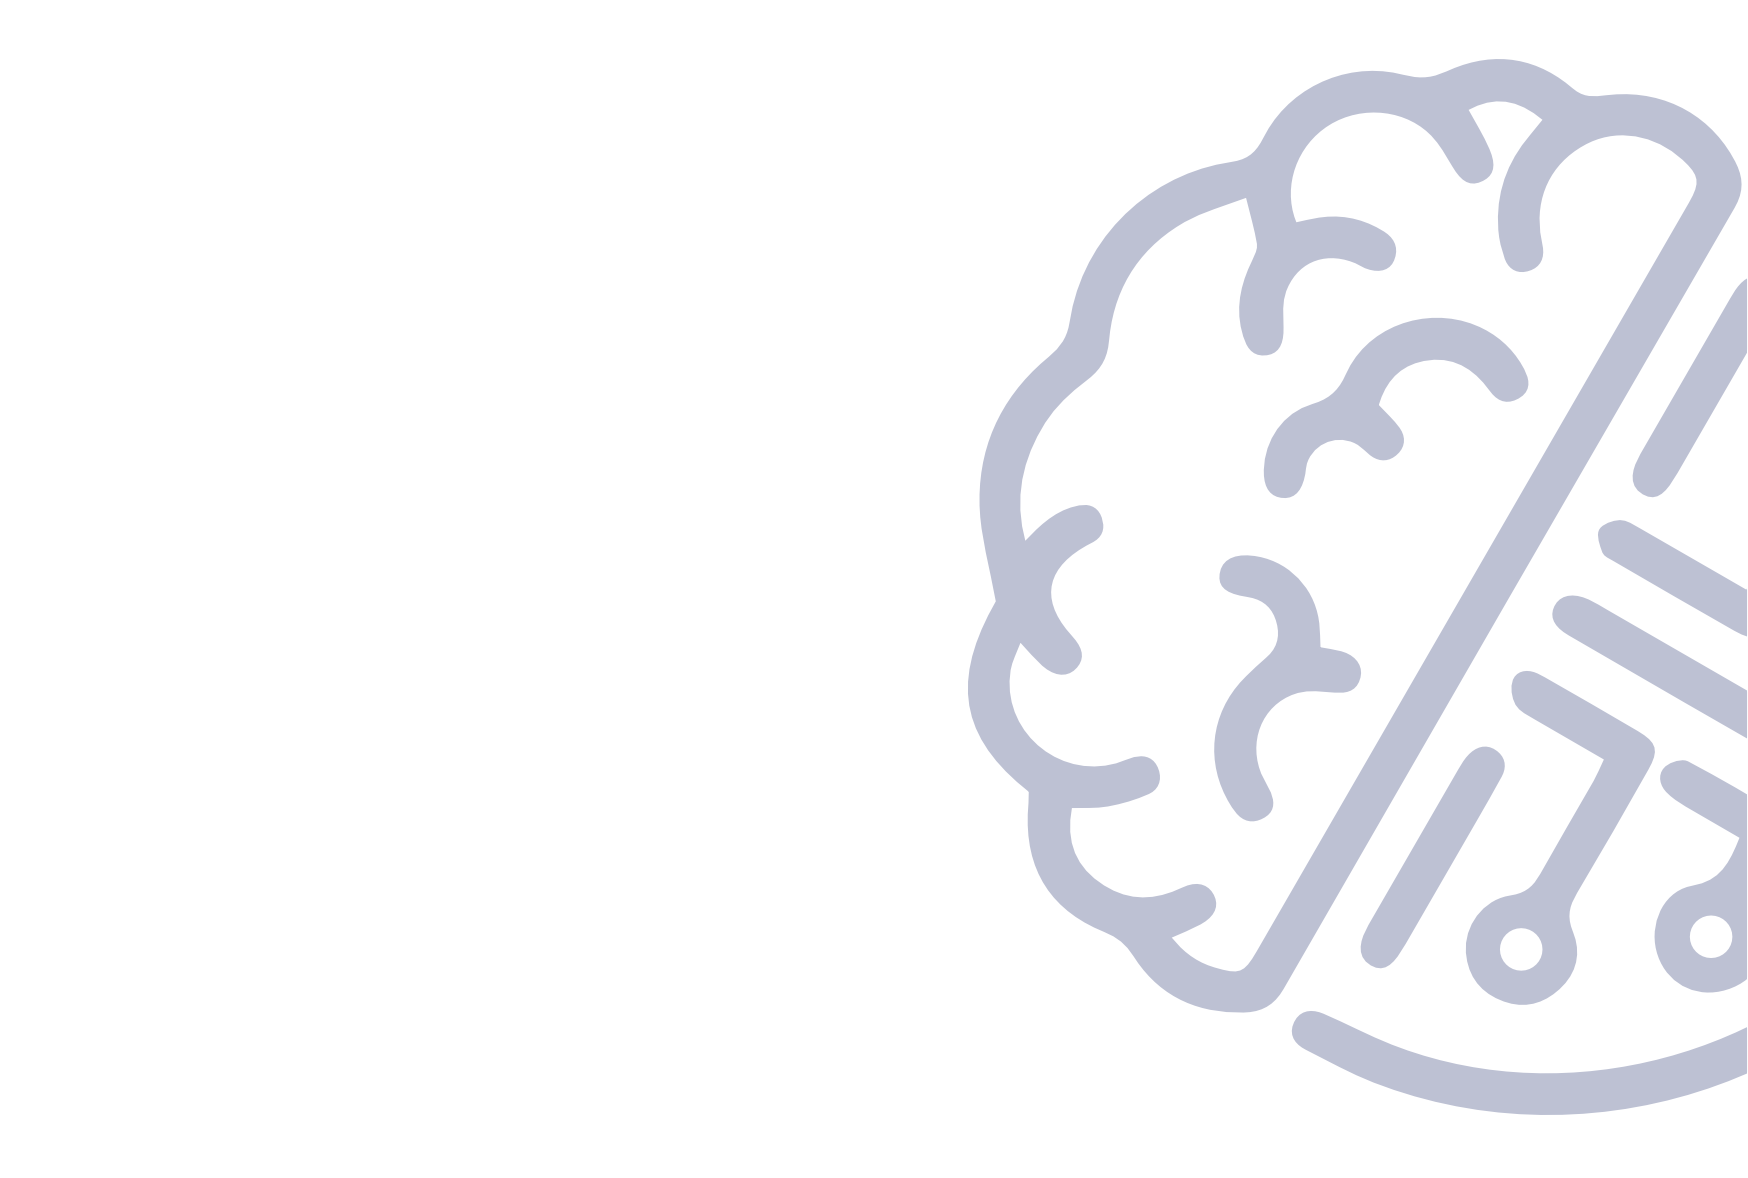
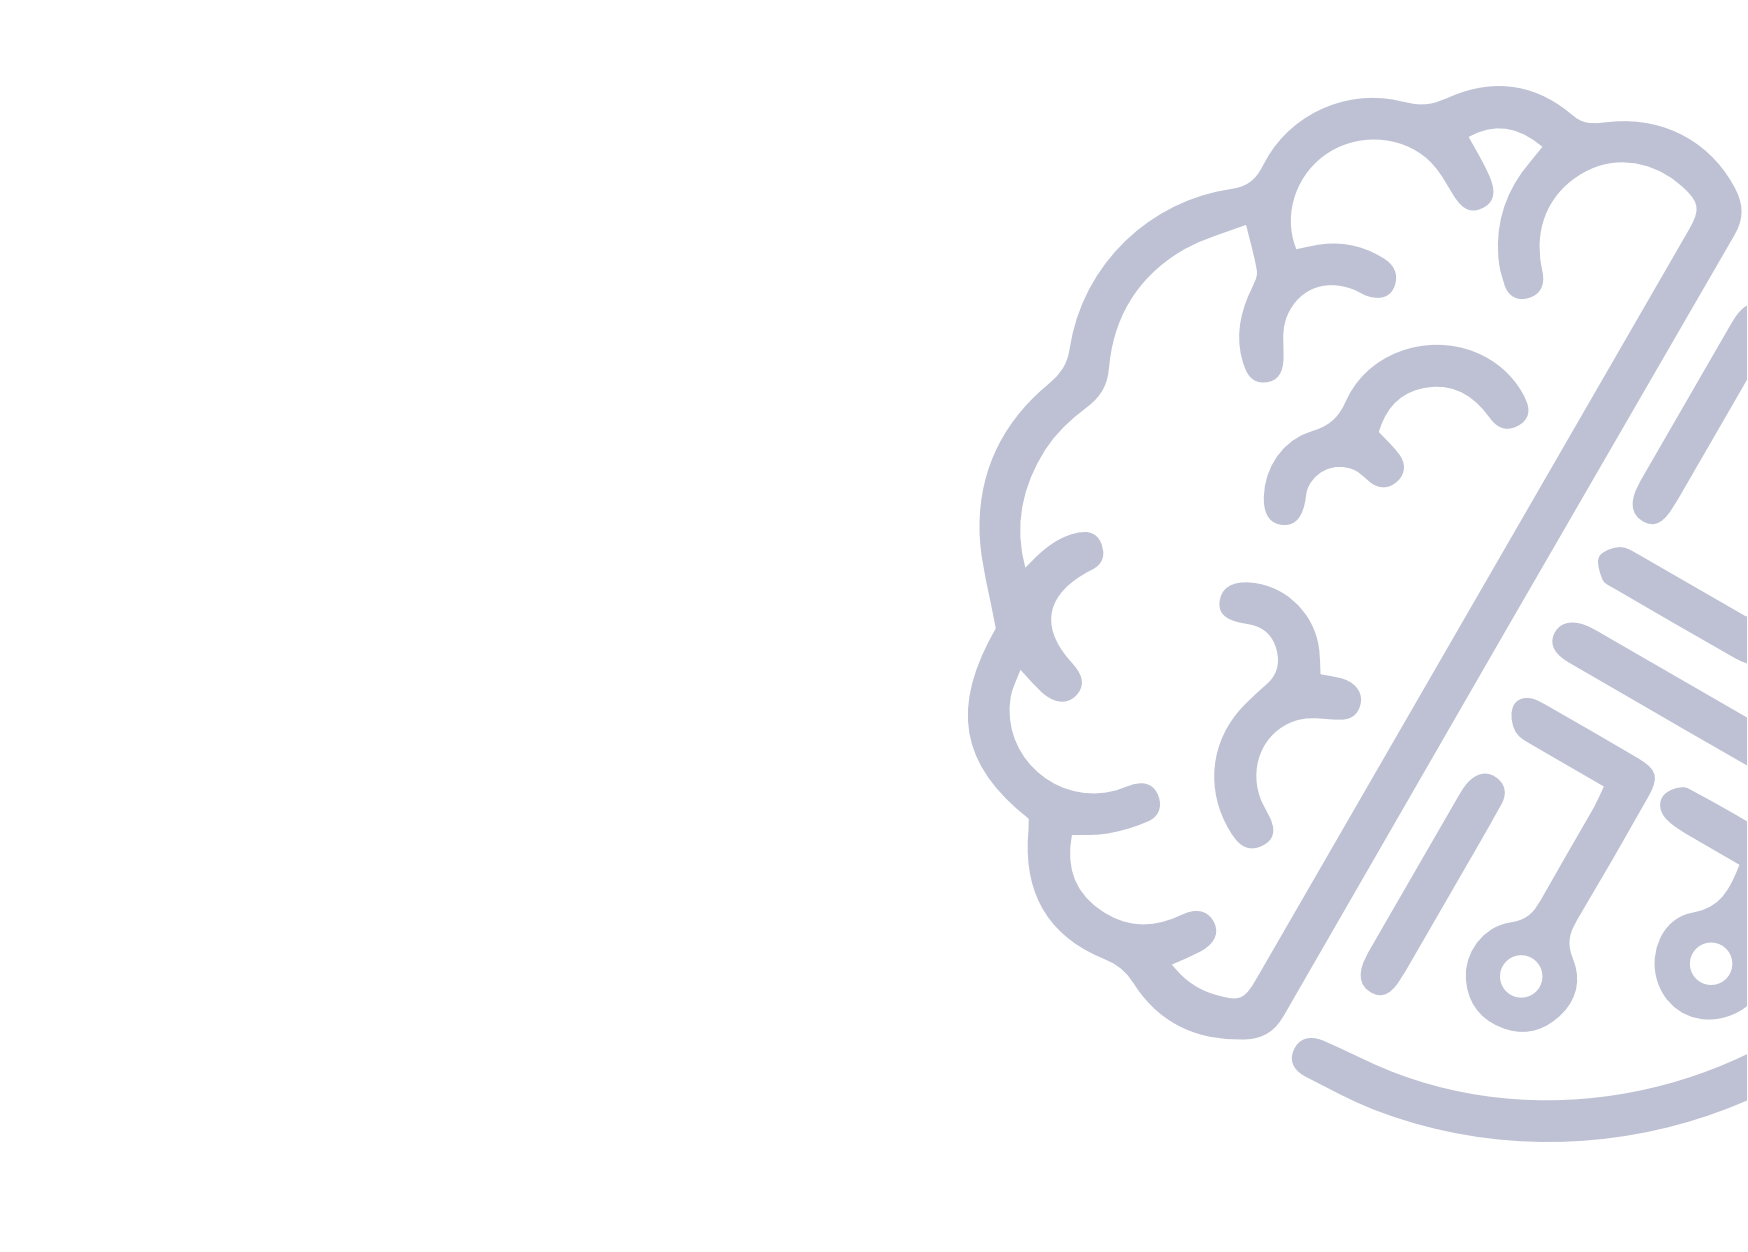
[Refactor]: Code improvements and useless line removal. Two illustrations resized.

diff --git a/header-footer/layout-integrator.js b/header-footer/layout-integrator.js
@@ -62,15 +62,7 @@ class CustomHeader extends HTMLElement {
                         </li>
                     </ul>
                     <i class="bi bi-list mobile-nav-toggle"></i>
-                </nav><!-- .navbar -->
-        
-            <!-- <div class="header-social-links d-flex align-items-center">
-            <a href="#" class="twitter"><i class="bi bi-twitter"></i></a>
-            <a href="#" class="facebook"><i class="bi bi-facebook"></i></a>
-            <a href="#" class="instagram"><i class="bi bi-instagram"></i></a>
-            <a href="#" class="linkedin"><i class="bi bi-linkedin"></i></i></a>
-            </div> -->
-        
+                </nav><!-- .navbar -->        
             </div>
         </header>
         <!-- End Header -->`
